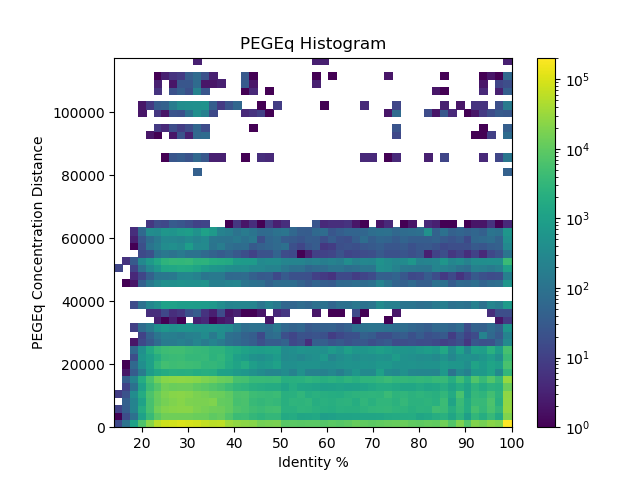
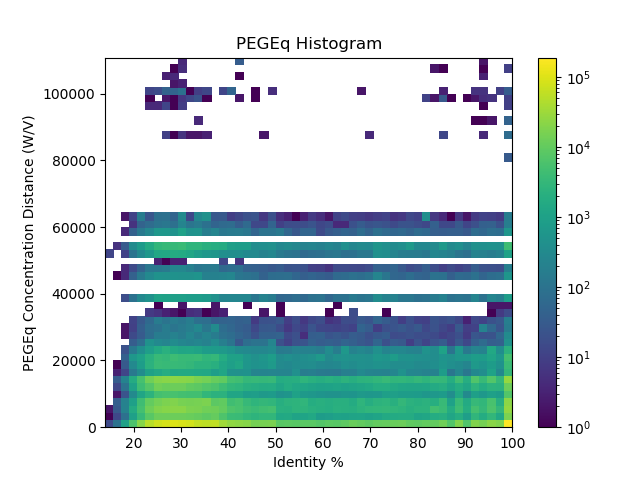
stuff

diff --git a/correlate_nh4.py b/correlate_nh4.py
@@ -9,8 +9,20 @@ numcodes = len(pdbcodes)
 
 nh4results = []
 for i,pdbcode in enumerate(pdbcodes):
+    
     sys.stdout.flush()
     print(f"Progress: {i}/{numcodes}",end='\r')
+
+    conds1 = chemsdict[pdbcode]
+    
+    ammoniumSulfate1 = None
+    for cond in conds1:
+        if cond["chem"] == "AMMONIUM SULFATE" and cond["units"] == "M":
+            ammoniumSulfate1 = float(cond["conc"])
+            break
+
+    if not ammoniumSulfate1:
+        continue
 
     with open("db/blastout/"+pdbcode+".csv","rb") as csvfile:
         blastresult = np.genfromtxt(csvfile,dtype=None,delimiter=",")
@@ -21,28 +33,20 @@ for i,pdbcode in enumerate(pdbcodes):
     except:
         continue
 
-    conds1 = chemsdict[pdbcode]
-
     for seqid, seqident in zip(blastresult['f1'], blastresult['f2']):
         pdbcode2 = seqid[:4].decode("ascii").lower()
         if pdbcode2 not in pdbcodes:
             continue
         conds2 = chemsdict[pdbcode2]
 
-    ammoniumSulfate1 = None
-    for cond in conds1:
-        if cond["chem"] == "AMMONIUM SULFATE" and cond["units"] == "M":
-            ammoniumSulfate1 = float(cond["conc"])
-            break
-
-    ammoniumSulfate2 = None
-    for cond in conds2:
-        if cond["chem"] == "AMMONIUM SULFATE" and cond["units"] == "M":
-            ammoniumSulfate2 = float(cond["conc"])
-            break
+        ammoniumSulfate2 = None
+        for cond in conds2:
+            if cond["chem"] == "AMMONIUM SULFATE" and cond["units"] == "M":
+                ammoniumSulfate2 = float(cond["conc"])
+                break
             
-    if ammoniumSulfate1 and ammoniumSulfate2:
-        nh4results.append((np.abs(ammoniumSulfate1-ammoniumSulfate2), seqid))
+        if ammoniumSulfate2:
+            nh4results.append((np.abs(ammoniumSulfate1-ammoniumSulfate2), seqident))
         
 nh4results = np.asarray(nh4results)
-np.save("db/chem_results", nh4results)
+np.save("db/nh4_results", nh4results)

diff --git a/correlate_peg.py b/correlate_peg.py
@@ -15,6 +15,17 @@ for i,pdbcode in enumerate(pdbcodes):
     sys.stdout.flush()
     print(f"Progress: {i}/{numcodes}",end='\r')
 
+    conds1 = chemsdict[pdbcode]
+
+    peg1 = None
+    for cond in conds1:
+        if "POLYETHYLENE GLYCOL" in cond["chem"] and cond["units"] == "W/V":
+            peg1 = cond
+            break
+
+    if not peg1:
+        continue
+
     with open("db/blastout/"+pdbcode+".csv","rb") as csvfile:
         blastresult = np.genfromtxt(csvfile,dtype=None,delimiter=",")
     
@@ -24,25 +35,18 @@ for i,pdbcode in enumerate(pdbcodes):
     except:
         continue
     
-    conds1 = chemsdict[pdbcode]
-
     for seqid, seqident in zip(blastresult['f1'], blastresult['f2']):
         pdbcode2 = seqid[:4].decode("ascii").lower()
         if pdbcode2 not in pdbcodes:
             continue
         conds2 = chemsdict[pdbcode2]
 
-        peg1 = None
-        for cond in conds1:
-            if "POLYETHYLENE GLYCOL" in cond["chem"] and cond["units"] == "W/V":
-                peg1 = cond
-                break
         peg2 = False
         for cond in conds2:
             if "POLYETHYLENE GLYCOL" in cond["chem"] and cond["units"] == "W/V":
                 peg2 = cond
                 break
-        if peg1 and peg2:
+        if peg2:
             _peg1 = (int(peg1["chem"].split(" ")[-1]), float(peg1["conc"]))
             _peg2 = (int(peg2["chem"].split(" ")[-1]), float(peg2["conc"]))
             pegscore = PEGscorer.peg_score(_peg1, _peg2)

diff --git a/plots.py b/plots.py
@@ -6,8 +6,6 @@ C6results = np.load("db/c6_results.npy")
 PEGresults = np.load("db/peg_results.npy")
 NH4results = np.load("db/nh4_results.npy")
 
-# print(len(C6results[np.where(C6results[:,0] > 1)]))
-
 C6filter = np.where((C6results[:,0] != -1) & (C6results[:,0] <= 1))
 plt.hist2d(C6results[C6filter,1][0],C6results[C6filter,0][0],bins=50,norm=clr.LogNorm())
 plt.colorbar()
@@ -20,10 +18,12 @@ plt.colorbar()
 plt.xlabel("Identity %")
 plt.ylabel("PEGEq Concentration Distance (W/V)")
 plt.title("PEGEq Histogram")
+
 plt.figure()
 plt.hist2d(NH4results[:,1],NH4results[:,0], bins=50,norm=clr.LogNorm())
 plt.colorbar()
 plt.xlabel("Identity %")
 plt.ylabel("Ammonium Sulfate Concentration Distance (M)")
 plt.title("Ammonium Sulfate Histogram")
+
 plt.show()

diff --git a/pegeq.py b/pegeq.py
@@ -55,10 +55,12 @@ def main():
 
     plt.plot(np.arange(np.min(means[:,0]), np.max(means[:,0]), 1), slope*np.log(np.arange(np.min(means[:,0]), np.max(means[:,0]), 1))+intercept)
     
-    plt.figure()
     for i,weight in enumerate(np.unique(PEGdata[:,1])):
-        plt.subplot(5,5,i+1)
-        plt.hist(PEGdata[np.where(PEGdata[:,1] == weight), 0][0])
+        if len(np.where(PEGdata[:,1] == weight)[0]) > 10:
+            plt.subplot(5,5,i+1)
+            plt.hist(PEGdata[np.where(PEGdata[:,1] == weight), 0][0],bins=100)
+            plt.xlim((0,50))
+            plt.text(20,plt.ylim()[1]*(9/10),f"Mol. Weight = {int(weight):d}")
 
     plt.show()
 
